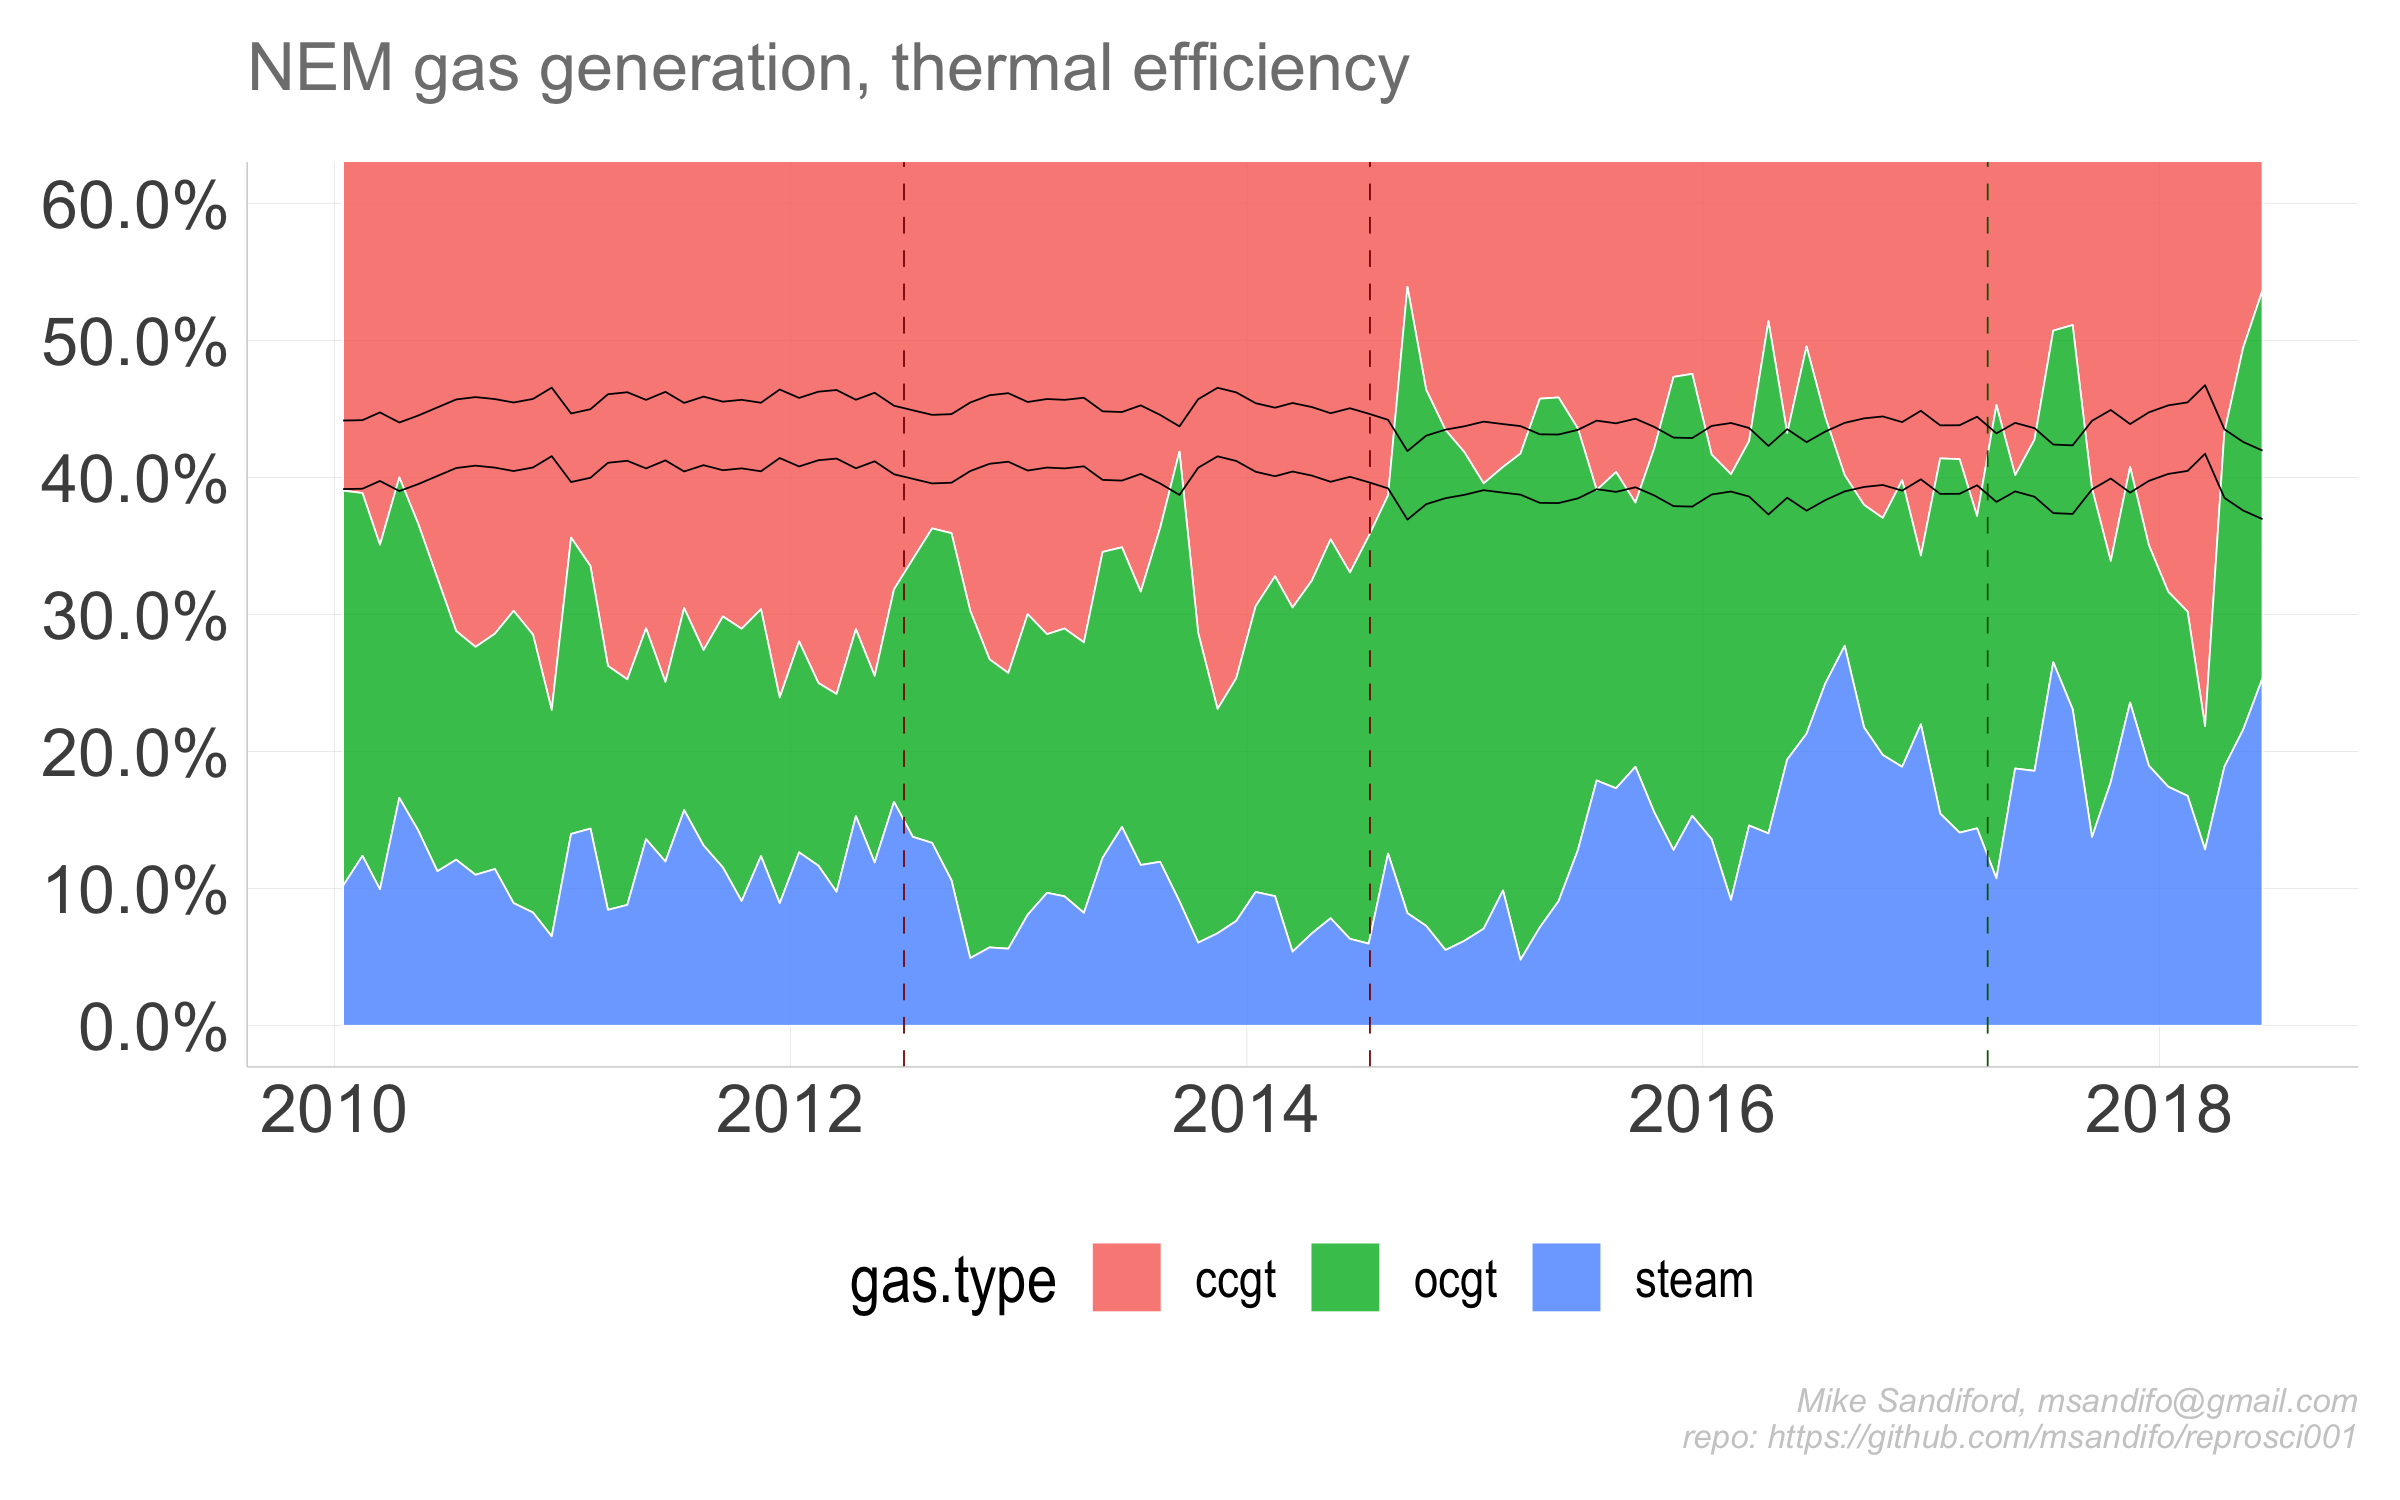
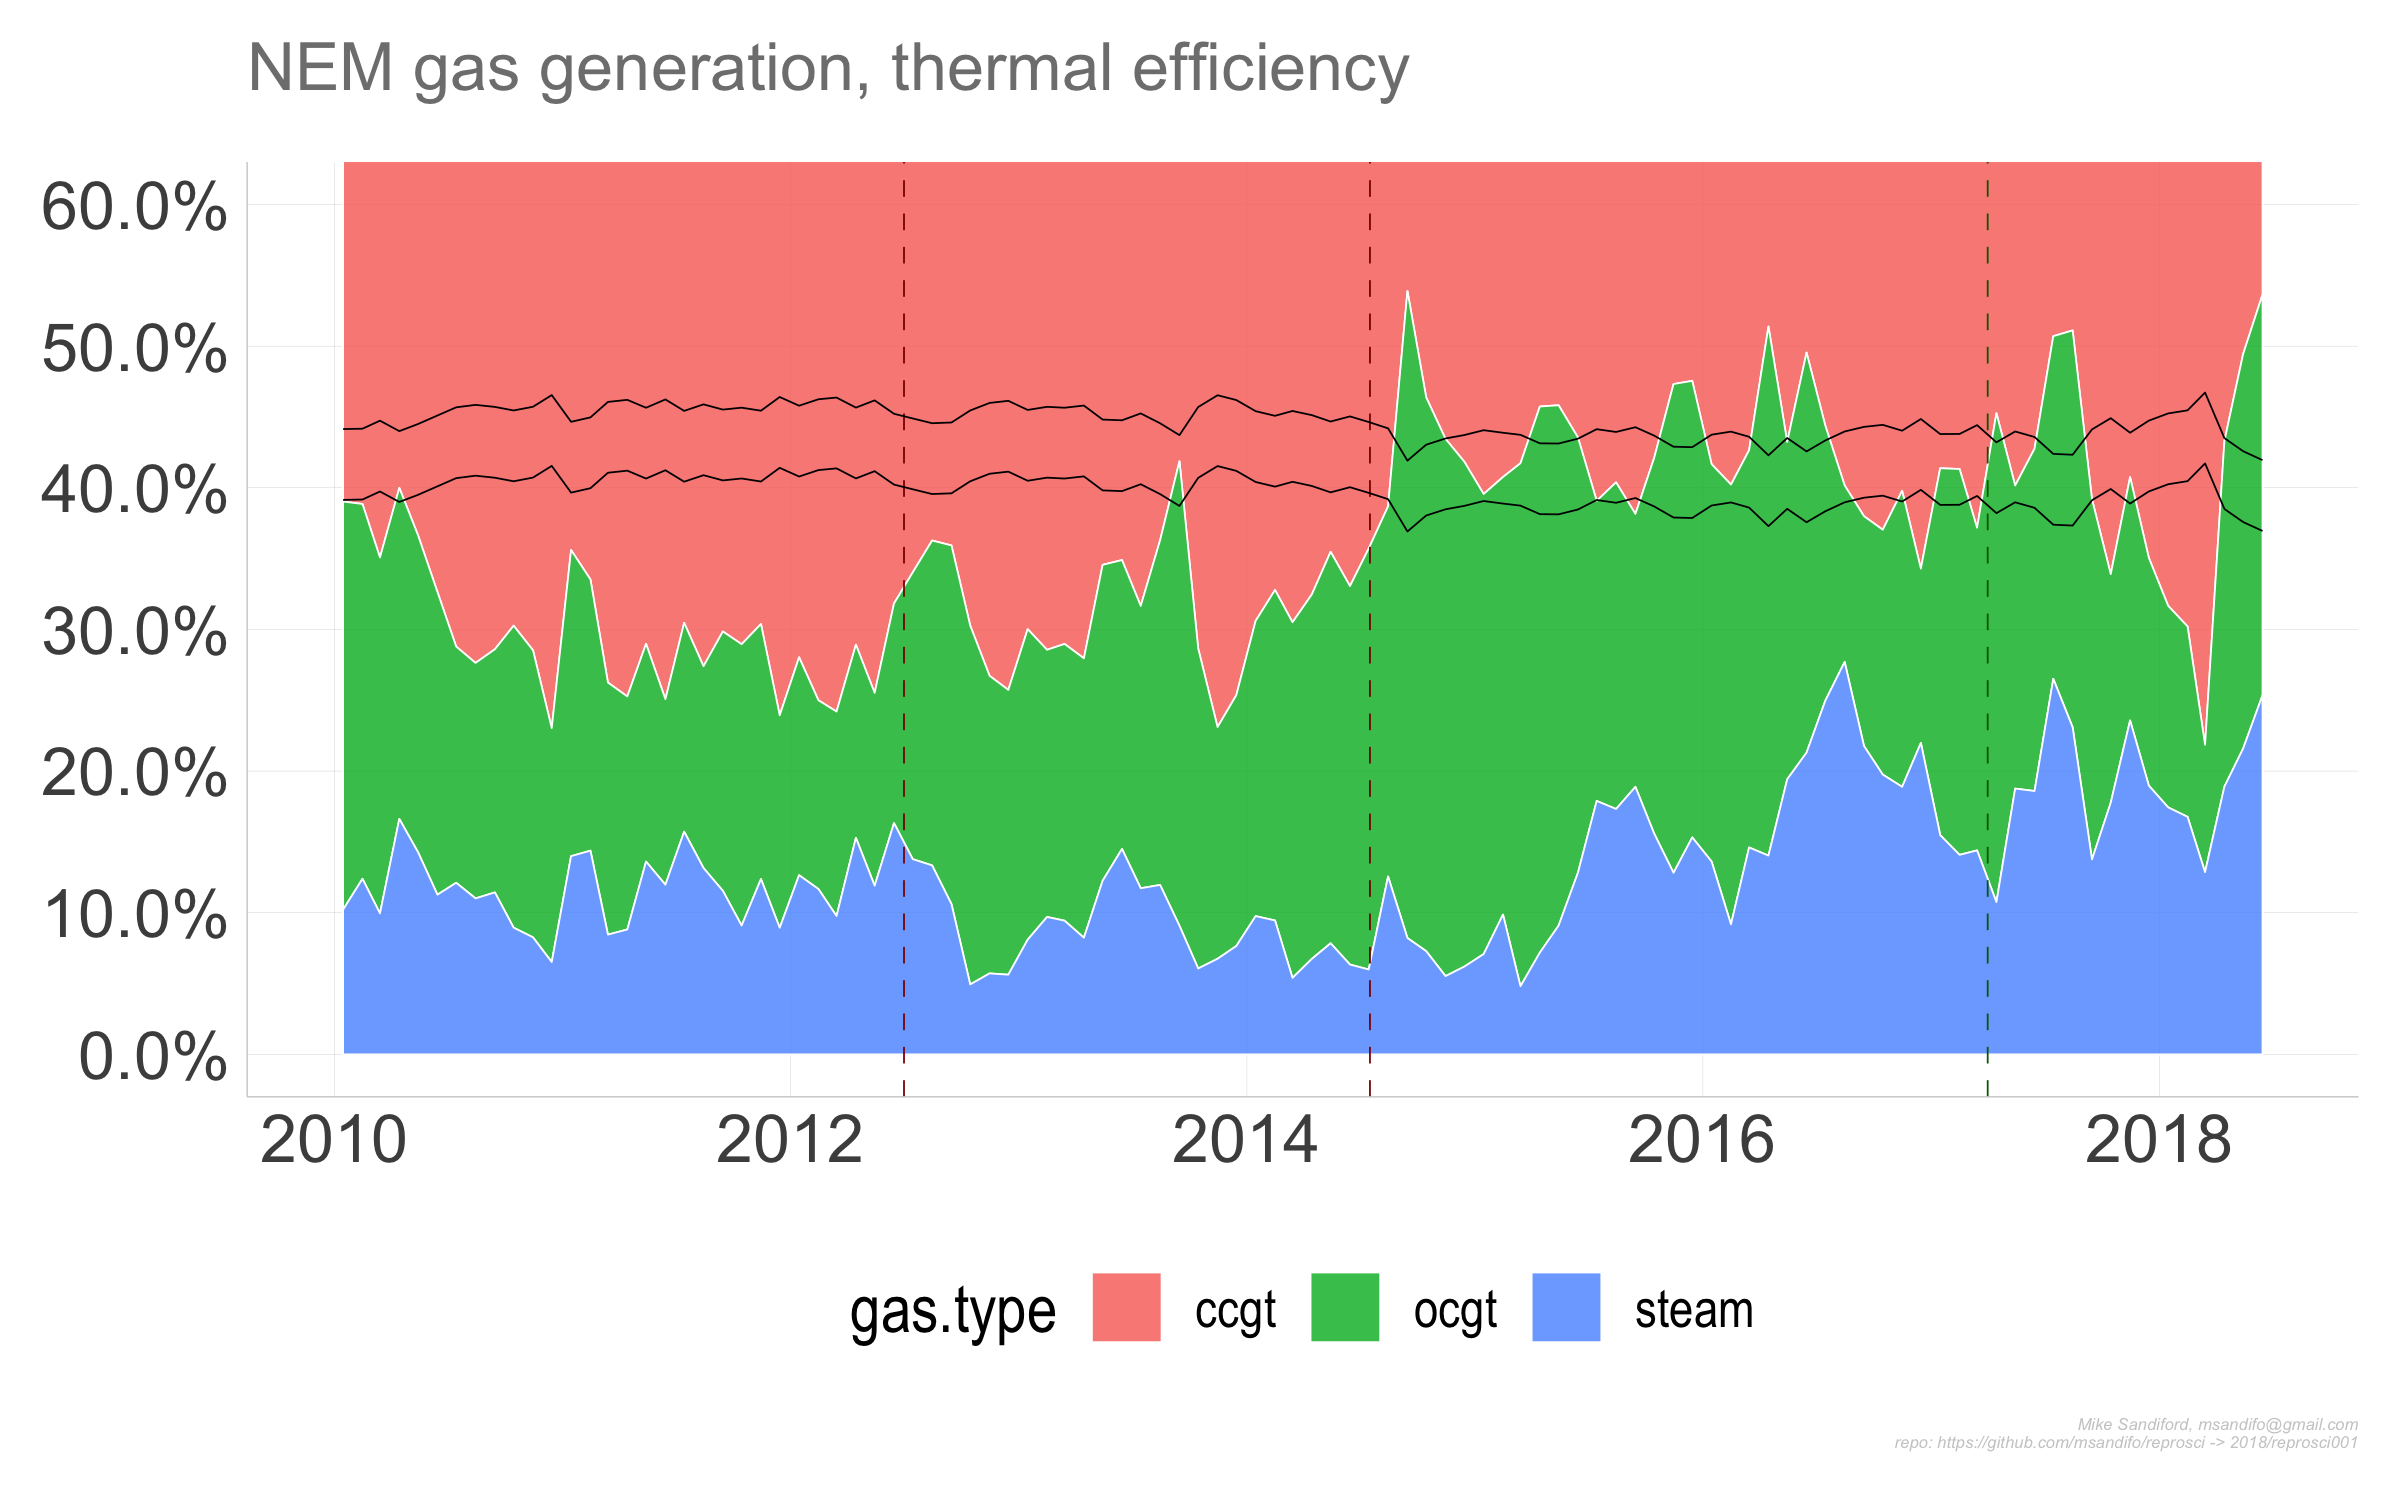
new

diff --git a/README.md b/README.md
@@ -2,4 +2,5 @@
 
 This repo contains the codes needed to reproduce the figures posted at @reprosci
 
-#### 2018/
+#### 2018/reprosci001
+
